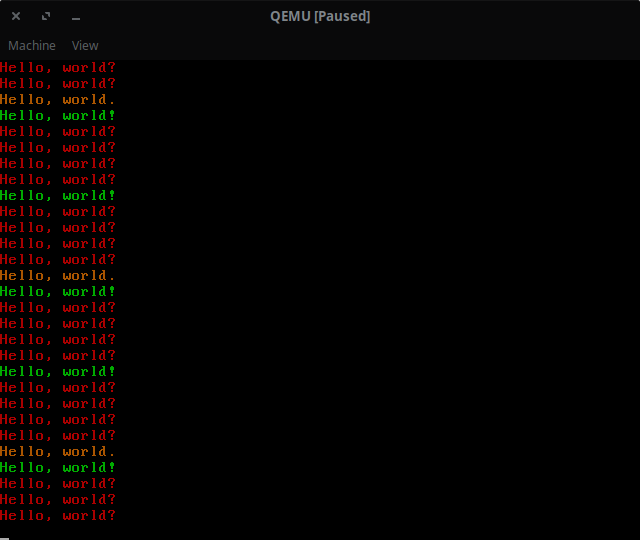
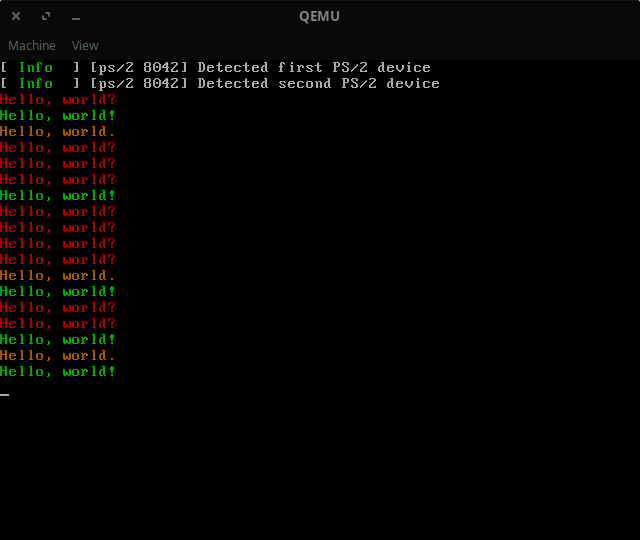
Task termination

diff --git a/kernel/task.c b/kernel/task.c
@@ -5,6 +5,8 @@
 #include <kernel/mm/paging.h>
 #include <kernel/task.h>
 
+#define KSTACKSZ 16384 /* process kernel stack size */
+
 #define NTICKS 10
 
 #define FREQ 1193
@@ -22,6 +24,7 @@ struct task_list {
 static struct task_list *ready = NULL;
 static struct task_list *paused = NULL;
 static struct task_list *sleeping = NULL;
+static struct task_list *terminated = NULL;
 
 static uint64_t timens = 0; /* time in nanoseconds */
 
@@ -102,7 +105,8 @@ extern void task_init_memory(void) {
 	for (int i = 0; i < NTASKS; i++) {
 
 		pagedirs[i].frame = page_frame_alloc();
-		pagedirs[i].page = page_alloc(1, &pagedirs[i].frame);
+		pagedirs[i].page = page_breakp++;
+		page_map(pagedirs[i].page, pagedirs[i].frame);
 	}
 }
 
@@ -112,6 +116,7 @@ extern void task_init(void) {
 	ready = &lists[TASK_READY];
 	paused = &lists[TASK_PAUSED];
 	sleeping = &lists[TASK_SLEEPING];
+	terminated = &lists[TASK_TERMINATED];
 
 	ktask = task_new(&kernel_stack_top, NULL);
 	ktask->cr3 = page_get_directory();
@@ -135,6 +140,7 @@ extern task_t *task_new(void *esp, void *seteip) {
 
 	task_lockcli();
 
+	/* get task id */
 	uint32_t id = 0;
 	for (; id < NTASKS && taskmap[id]; id++);
 	if (id >= NTASKS) {
@@ -145,6 +151,15 @@ extern task_t *task_new(void *esp, void *seteip) {
 
 	/* create task */
 	task_t *task = (task_t *)kmalloc(sizeof(task_t));
+
+	task->ownstack = false;
+	if (!esp) {
+		
+		esp = kmalloc(KSTACKSZ);
+		esp += KSTACKSZ;
+		task->ownstack = true;
+	}
+
 	task->esp0 = esp;
 	task->esp = esp;
 	task->cr3 = NULL;
@@ -291,4 +306,31 @@ extern void task_nano_sleep(uint64_t ns) {
 extern void task_sleep(uint32_t s) {
 
 	task_nano_sleep((uint64_t)s * 1000000000);
+}
+
+/* terminate current task */
+extern void task_terminate(void) {
+
+	task_block(TASK_TERMINATED);
+}
+
+/* clean up terminated tasks */
+extern void task_cleanup(void) {
+
+	if (terminated->first) {
+
+		task_lockcli();
+		while (terminated->first) {
+
+			task_t *task = terminated->first;
+			task_remove_from_list(terminated, task);
+
+			/* free stack and other resources */
+			taskmap[task->id] = NULL;
+
+			if (task->ownstack) kfree(task->esp0-KSTACKSZ);
+			kfree(task);
+		}
+		task_unlockcli();
+	}
 }

diff --git a/kernel/main.c b/kernel/main.c
@@ -13,19 +13,17 @@
 #include <kernel/fs/ext2.h>
 #include <kernel/task.h>
 
-#define SBUFSZ 512
-static char sbuf[SBUFSZ];
-static char sbuf2[SBUFSZ];
-static char sbuf3[SBUFSZ];
+static task_t *task1;
+static task_t *task2;
+static task_t *task3;
 
-static task_t *test_task;
-static task_t *other_task;
-static task_t *alt_task;
-static fs_node_t *ttydev;
+#define TASK1_NLOOP 10
+#define TASK2_NLOOP 5
+#define TASK3_NLOOP 3
 
-static void test_func();
-static void other_func();
-static void alt_func();
+static void func1();
+static void func2();
+static void func3();
 
 extern void kernel_main() {
 
@@ -41,52 +39,58 @@ extern void kernel_main() {
 	device_init();
 	task_init();
 
-	ttydev = tty_get_device(0);
+	task1 = task_new(NULL, func1);
+	task2 = task_new(NULL, func2);
+	task3 = task_new(NULL, func3);
 
-	test_task = task_new(sbuf+SBUFSZ, test_func);
-	other_task = task_new(sbuf2+SBUFSZ, other_func);
-	alt_task = task_new(sbuf3+SBUFSZ, alt_func);
-
-	char buf[32];
 	while (true) {
 
-		//asm volatile("hlt");
-		fs_read(ttydev, 0, 32, buf);
+		task_cleanup();
+		asm volatile("hlt");
 	}
 }
 
-static void test_func() {
+static void func1() {
 
 	task_unlockcli();
 
+	int count = 0;
 	while (true) {
 		
 		tty_printf("\e[31mHello, world?\e[39m\n");
 
 		task_nano_sleep(500000000);
+		if (++count >= TASK1_NLOOP)
+			task_terminate();
 	}
 }
 
-static void other_func() {
+static void func2() {
 
 	task_unlockcli();
 
+	int count = 0;
 	while (true) {
 
 		tty_printf("\e[32mHello, world!\e[39m\n");
 
 		task_sleep(2);
+		if (++count >= TASK2_NLOOP)
+			task_terminate();
 	}
 }
 
-static void alt_func() {
+static void func3() {
 
 	task_unlockcli();
 
+	int count = 0;
 	while (true) {
 
 		tty_printf("\e[33mHello, world.\e[39m\n");
 
 		task_sleep(4);
+		if (++count >= TASK3_NLOOP)
+			task_terminate();
 	}
 }

diff --git a/kernel/multiboot.c b/kernel/multiboot.c
@@ -1,5 +1,6 @@
 #include <kernel/types.h>
 #include <kernel/tty.h>
+#include <kernel/string.h>
 #include <kernel/mm/paging.h>
 #include <kernel/driver/fb.h>
 #include <kernel/multiboot.h>
@@ -9,6 +10,7 @@ static page_frame_id_t frames[NBUFSZ]; /* buffer to store page frame numbers */
 
 static multiboot_info_t *info = NULL;
 static multiboot_saved_info_t saved;
+static multiboot_cmdline_t cmdline;
 
 /* initialize */
 extern void multiboot_init(void) {
@@ -80,6 +82,27 @@ extern void multiboot_init(void) {
 		tagsz += ALIGN(tagptr->size, 8);
 		tagptr = (void *)info->tags + tagsz;
 	}
+
+	/* parse command line */
+	if (saved.f_cmdline) {
+
+		const char *arg = saved.cmdline;
+		while (arg) {
+
+			const char *next = strchr(arg, ' ');
+			size_t len = next? (size_t)(next-arg): strlen(arg);
+
+			/* uart as tty */
+			if (!strncmp("uart-tty", arg, len))
+				cmdline.uart_tty = true;
+
+			/* no info or warning messages */
+			else if (!strncmp("quiet", arg, len))
+				cmdline.quiet = true;
+
+			arg = next? next+1: NULL;
+		}
+	}
 }
 
 /* get multiboot structure */
@@ -129,4 +152,10 @@ extern multiboot_info_t *multiboot_get_structure(void) {
 extern multiboot_saved_info_t *multiboot_get_saved_info(void) {
 
 	return &saved;
+}
+
+/* get command line info */
+extern multiboot_cmdline_t *multiboot_get_cmdline(void) {
+
+	return &cmdline;
 }

diff --git a/include/kernel/task.h b/include/kernel/task.h
@@ -7,8 +7,9 @@
 #define TASK_RUNNING 1
 #define TASK_PAUSED 2
 #define TASK_SLEEPING 3
+#define TASK_TERMINATED 4
 
-#define TASK_NSTATES 4
+#define TASK_NSTATES 5
 
 /* task control block */
 typedef struct task {
@@ -21,6 +22,7 @@ typedef struct task {
 	uint64_t waketime; /* wake up time for sleeping task */
 	uint32_t nticks; /* number of ticks left */
 	uint32_t id; /* task id */
+	bool ownstack; /* owns kernel stack */
 } task_t;
 
 extern task_t *ktask; /* base kernel task */
@@ -44,5 +46,7 @@ extern void task_unblock(task_t *task); /* unblock task */
 extern void task_nano_sleep_until(uint64_t waketime); /* sleep in nanoseconds until */
 extern void task_nano_sleep(uint64_t ns); /* sleep in nanoseconds */
 extern void task_sleep(uint32_t s); /* sleep in seconds */
+extern void task_terminate(void); /* terminate current task */
+extern void task_cleanup(void); /* clean up terminated tasks */
 
 #endif /* ECLAIR_TASK_H */

diff --git a/include/kernel/multiboot.h b/include/kernel/multiboot.h
@@ -87,6 +87,12 @@ typedef struct multiboot_saved_info {
 	multiboot_framebuffer_color_info_t *fb_color; /* color info */
 } multiboot_saved_info_t;
 
+/* command line info */
+typedef struct multiboot_cmdline {
+	bool uart_tty; /* initialize uart as tty device */
+	bool quiet; /* do not display log messages under info or warning */
+} multiboot_cmdline_t;
+
 /* preloaded values */
 extern multiboot_info_t *multiboot_data_info;
 extern uint32_t multiboot_data_magic;
@@ -96,5 +102,6 @@ extern void multiboot_init(void); /* initialize */
 extern void multiboot_map_structure(void); /* map the structure */
 extern multiboot_info_t *multiboot_get_structure(void); /* get pointer to structure */
 extern multiboot_saved_info_t *multiboot_get_saved_info(void); /* get info that was saved from structure */
+extern multiboot_cmdline_t *multiboot_get_cmdline(void); /* get command line info */
 
 #endif /* ECLAIR_MULTIBOOT_H */

diff --git a/kernel/driver/device.c b/kernel/driver/device.c
@@ -16,6 +16,7 @@
 #define MAX_DEVS 32
 static device_t *devs[MAX_DEVS]; /* device pointers */
 static int ndevs = 0; /* number of devices */
+static multiboot_cmdline_t *cmdline; /* command line info */
 
 /* initialize tty devices */
 static void init_tty(void) {
@@ -24,11 +25,13 @@ static void init_tty(void) {
 	else vgacon_init_tty();
 
 	uart_init(UART_COM1_BIT, UART_DEFAULT_BAUD_RATE);
-	uart_init_tty();
+	if (cmdline->uart_tty) uart_init_tty();
 }
 
 /* initialize all devices */
 extern void device_init(void) {
+
+	cmdline = multiboot_get_cmdline();
 
 	init_tty();
 	pit_init();

diff --git a/kernel/panic.c b/kernel/panic.c
@@ -1,6 +1,7 @@
 #include <kernel/types.h>
 #include <kernel/tty.h>
 #include <kernel/idt.h>
+#include <kernel/multiboot.h>
 #include <kernel/panic.h>
 
 static const char *codedesc[PANIC_CODE_COUNT] = {
@@ -35,6 +36,9 @@ extern void kpanic(int code, const char *msg, idt_regs_t *regs) {
 
 /* print log message */
 extern void kprintf(log_level_t level, const char *fmt, ...) {
+
+	multiboot_cmdline_t *cmdline = multiboot_get_cmdline();
+	if (cmdline->quiet && level < LOG_FATAL) return;
 
 	tty_printf("[%s] ", logdesc[level]);
 	

diff --git a/kernel/driver/uart.c b/kernel/driver/uart.c
@@ -93,7 +93,7 @@ extern void uart_init_tty(void) {
 /* get initialized com ports */
 extern uart_com_t uart_is_init(void) {
 
-	return init % UART_COM_COUNT;
+	return init;
 }
 
 /* write character */
